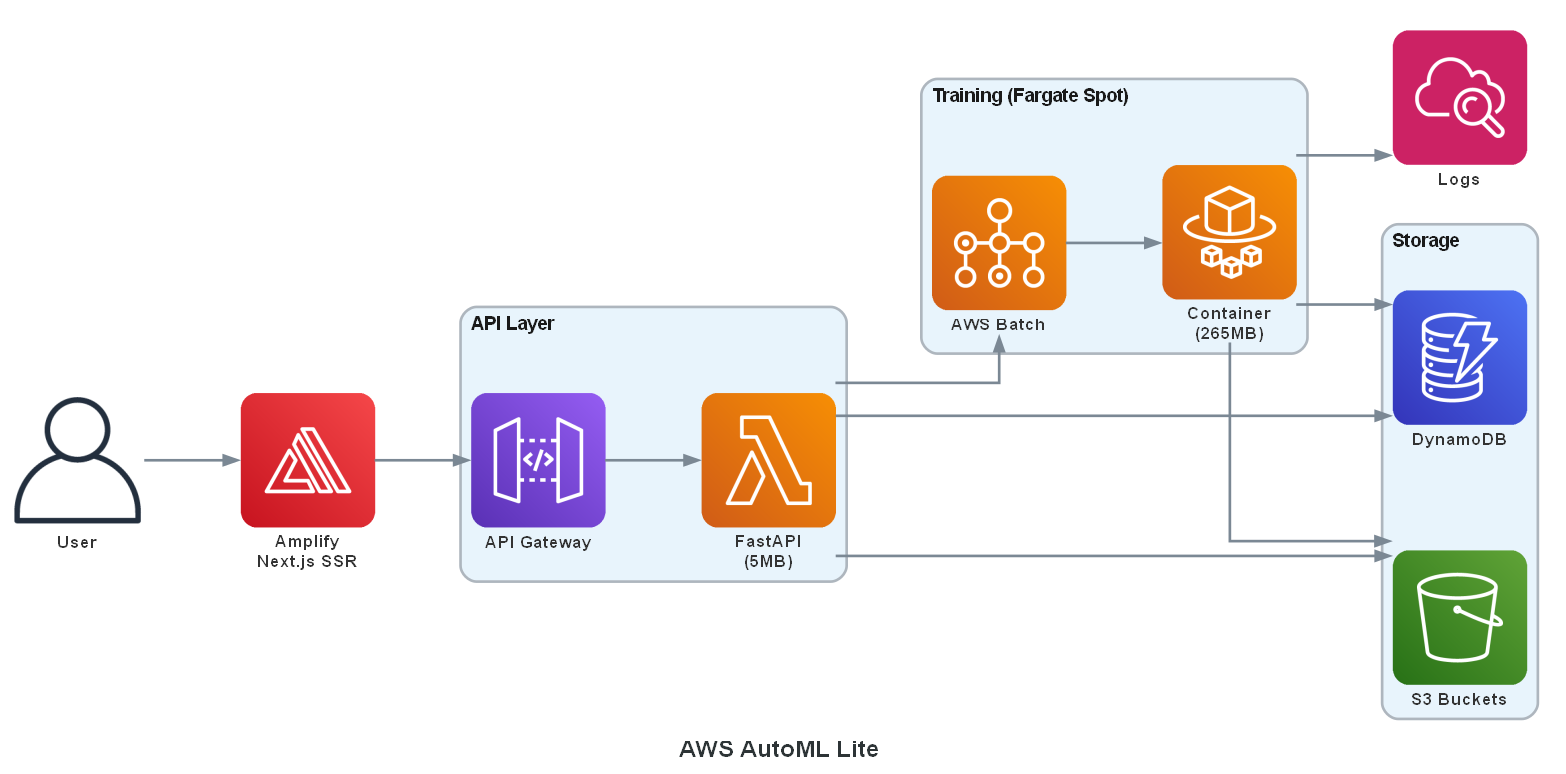
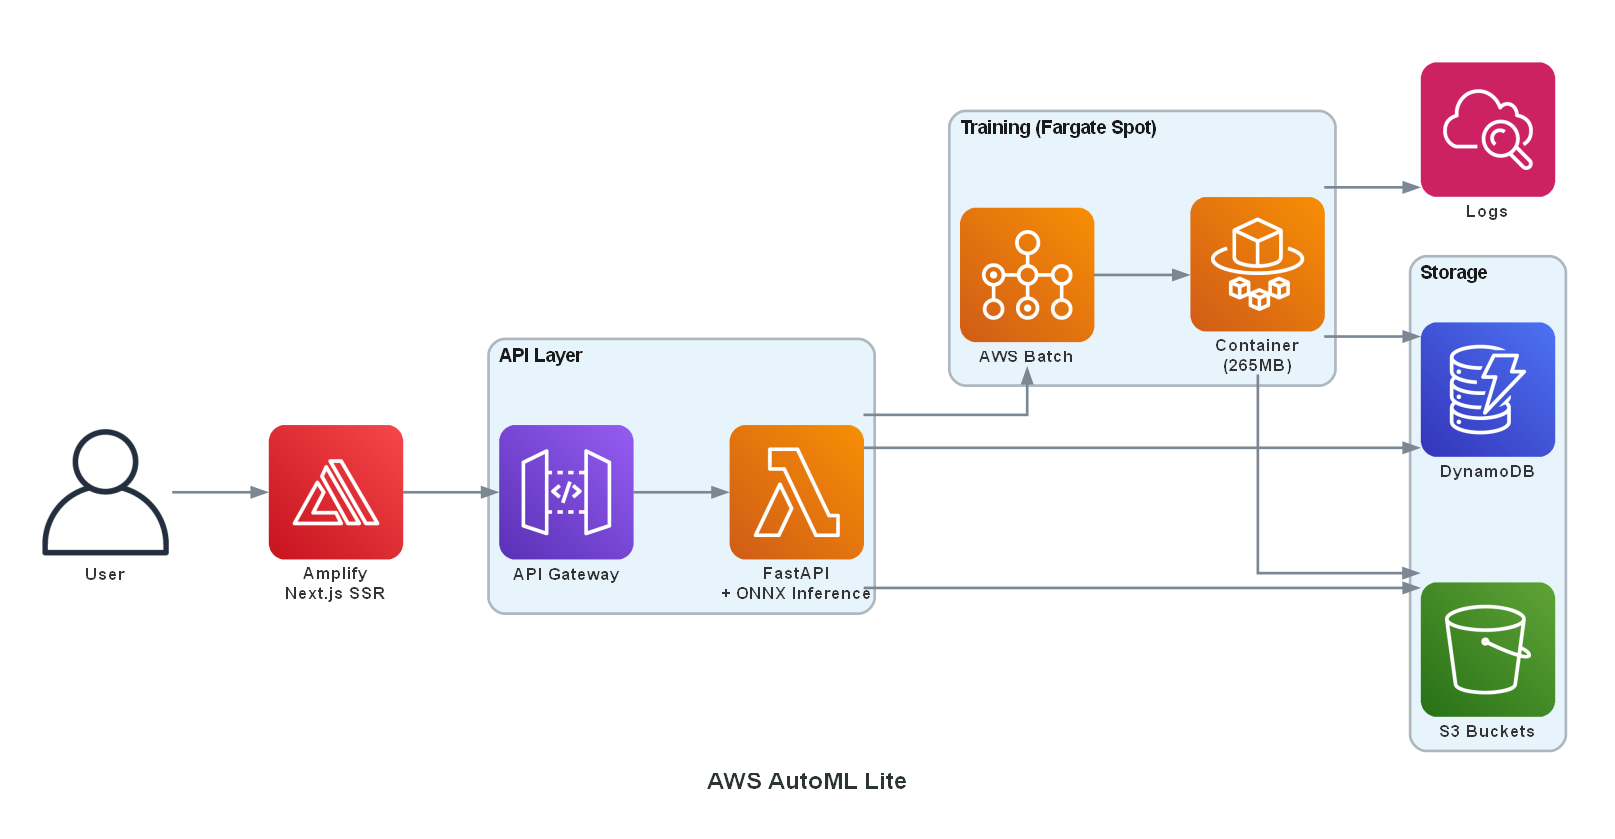
docs: update architecture diagrams and add new inference diagram

Changed region(s): [[0.0, 0.031, 0.9808, 0.9302], [0.5824, 0.093, 0.8276, 0.186], [0.4291, 0.8992, 0.5517, 0.9922]]

diff --git a/scripts/generate_architecture_diagram.py b/scripts/generate_architecture_diagram.py
@@ -14,9 +14,10 @@ Usage:
     python scripts/generate_architecture_diagram.py
 
 Output:
-    Creates 5 PNG files in the docs/diagrams/ directory:
+    Creates 6 PNG files in the docs/diagrams/ directory:
     - architecture-main.png
     - architecture-dataflow.png
+    - architecture-inference.png (NEW in v1.1.0)
     - architecture-cost.png
     - architecture-cicd.png
     - architecture-training.png
@@ -98,7 +99,7 @@ def create_main_architecture():
         # API Layer
         with Cluster("API Layer", graph_attr=CLUSTER_ATTR):
             api_gw = APIGateway("API Gateway")
-            lambda_fn = Lambda("FastAPI\n(5MB)")
+            lambda_fn = Lambda("FastAPI\n+ ONNX Inference")
         
         # Storage
         with Cluster("Storage", graph_attr=CLUSTER_ATTR):
@@ -124,10 +125,10 @@ def create_main_architecture():
 
 
 def create_data_flow_diagram():
-    """Create the data flow diagram - 4 phases horizontal."""
+    """Create the data flow diagram - 5 phases horizontal (updated v1.1.0)."""
     
     with Diagram(
-        "Data Flow: Upload → Train → Download",
+        "Data Flow: Upload → Train → Predict",
         show=False,
         filename=os.path.join(OUTPUT_DIR, "architecture-dataflow"),
         outformat="png",
@@ -153,8 +154,12 @@ def create_data_flow_diagram():
         
         # Phase 4: Results
         with Cluster("4. Results", graph_attr=CLUSTER_ATTR):
-            s3_model = S3("Model .pkl")
+            s3_model = S3(".pkl + .onnx")
             dynamo_metrics = Dynamodb("Metrics")
+        
+        # Phase 5: Predict (NEW in v1.1.0)
+        with Cluster("5. Predict", graph_attr=CLUSTER_ATTR):
+            lambda_inference = Lambda("ONNX\nRuntime")
         
         # Linear flow
         user >> Edge(label="CSV", fontsize="13", fontname="Arial Bold") >> s3_upload
@@ -162,7 +167,8 @@ def create_data_flow_diagram():
         dynamo_meta >> fargate
         fargate >> s3_model
         fargate >> dynamo_metrics
-        s3_model >> Edge(label="Download", fontsize="13", fontname="Arial Bold") >> user
+        s3_model >> lambda_inference
+        lambda_inference >> Edge(label="Prediction", fontsize="13", fontname="Arial Bold") >> user
 
 
 def create_cost_comparison_diagram():
@@ -206,15 +212,15 @@ def create_cost_comparison_diagram():
         edge_attr=EDGE_ATTR,
         direction="LR"  # Horizontal side by side
     ):
-        with Cluster("SageMaker + Endpoint\n$150-300/mo (endpoint 24/7)", graph_attr=sagemaker_cluster):
-            sm_studio = Sagemaker("Training\n$0.68-3.20")
-            sm_endpoint = Sagemaker("Endpoint\n$150+/mo")
+        with Cluster("SageMaker AI\n$36-171/mo (idle)", graph_attr=sagemaker_cluster):
+            sm_studio = Sagemaker("Training\n($0.03-0.16/job)")
+            sm_endpoint = Sagemaker("Endpoint\n$36-171/mo\n(idle)")
             sm_studio - sm_endpoint
         
-        with Cluster("AutoML Lite (batch only)\n$10-25/mo total", graph_attr=automl_cluster):
-            lite_amplify = Amplify("Amplify\n$5-15")
-            lite_lambda = Lambda("Lambda\n$1-2")
-            lite_fargate = Fargate("Fargate Spot\n$2-5")
+        with Cluster("AutoML Lite (Scale-to-zero)\n~$2-15/mo ($0 idle)", graph_attr=automl_cluster):
+            lite_amplify = Amplify("Amplify\n(Next.js SSR)")
+            lite_lambda = Lambda("API + Inference\n$0 idle\n(~$0.000004/req)")
+            lite_fargate = Fargate("Batch (Spot)\n$0.02/job")
             lite_amplify - lite_lambda - lite_fargate
 
 
@@ -257,7 +263,7 @@ def create_cicd_diagram():
 
 
 def create_training_detail_diagram():
-    """Create detailed training container diagram."""
+    """Create detailed training container diagram (updated v1.1.0 with ONNX)."""
     from diagrams.programming.language import Python
     from diagrams.onprem.container import Docker
     
@@ -272,7 +278,7 @@ def create_training_detail_diagram():
     }
     
     with Diagram(
-        "Training Container Flow",
+        "Training Container Flow (v1.1.0)",
         show=False,
         filename=os.path.join(OUTPUT_DIR, "architecture-training"),
         outformat="png",
@@ -287,16 +293,73 @@ def create_training_detail_diagram():
             download = S3("Download\nCSV")
             eda = Dynamodb("Generate\nEDA")
             train = Fargate("FLAML\nTraining")
+            onnx_export = Fargate("ONNX\nExport")
             
         with Cluster("Outputs", graph_attr=CLUSTER_ATTR):
-            model = S3("Model .pkl")
+            model_pkl = S3("Model .pkl")
+            model_onnx = S3("Model .onnx")
             report = S3("Reports")
             metrics = Dynamodb("Metrics")
         
-        batch >> download >> eda >> train
-        train >> model
+        batch >> download >> eda >> train >> onnx_export
+        onnx_export >> model_pkl
+        onnx_export >> model_onnx
         train >> report
         train >> metrics
+
+
+def create_inference_diagram():
+    """Create serverless inference architecture diagram (NEW in v1.1.0)."""
+    
+    inference_graph_attr = {
+        "fontsize": "16",
+        "fontname": "Arial Bold",
+        "bgcolor": "white",
+        "pad": "0.4",
+        "splines": "ortho",
+        "nodesep": "0.8",
+        "ranksep": "1.0",
+    }
+    
+    inference_cluster = {
+        "fontsize": "14",
+        "fontname": "Arial Bold",
+        "fontcolor": "#1a1a1a",
+        "style": "rounded",
+        "bgcolor": "#e8fce8",  # Light green for serverless
+        "penwidth": "2",
+    }
+    
+    with Diagram(
+        "Serverless Inference (v1.1.0)",
+        show=False,
+        filename=os.path.join(OUTPUT_DIR, "architecture-inference"),
+        outformat="png",
+        graph_attr=inference_graph_attr,
+        node_attr=NODE_ATTR,
+        edge_attr=EDGE_ATTR,
+        direction="LR"
+    ):
+        user = User("User")
+        
+        # Frontend
+        amplify = Amplify("Playground UI")
+        
+        # API Layer
+        with Cluster("Serverless Inference", graph_attr=inference_cluster):
+            api_gw = APIGateway("API Gateway\n/predict/{job_id}")
+            lambda_fn = Lambda("Lambda\nONNX Runtime")
+        
+        # Storage
+        with Cluster("Model Storage", graph_attr=CLUSTER_ATTR):
+            s3_onnx = S3("model.onnx")
+            dynamo = Dynamodb("Job Metadata\n(deployed=true)")
+        
+        # Flow
+        user >> amplify >> api_gw >> lambda_fn
+        lambda_fn >> Edge(label="Load", fontsize="11", fontname="Arial Bold") >> s3_onnx
+        lambda_fn >> dynamo
+        lambda_fn >> Edge(label="Prediction", fontsize="11", fontname="Arial Bold") >> user
 
 
 if __name__ == "__main__":
@@ -324,13 +387,18 @@ if __name__ == "__main__":
         create_training_detail_diagram()
         print("   ✅ architecture-training.png")
         
+        print("\n6. Creating inference architecture diagram...")
+        create_inference_diagram()
+        print("   ✅ architecture-inference.png")
+        
         print(f"\n✅ All diagrams generated in: {OUTPUT_DIR}")
         print("\nAvailable diagrams:")
-        print("  - architecture-main.png      (Main architecture overview)")
-        print("  - architecture-dataflow.png  (Data flow: Upload → Train → Download)")
-        print("  - architecture-cost.png      (Cost comparison with SageMaker)")
-        print("  - architecture-cicd.png      (CI/CD pipeline)")
-        print("  - architecture-training.png  (Training container detail)")
+        print("  - architecture-main.png       (Main architecture overview)")
+        print("  - architecture-dataflow.png   (Data flow: Upload → Train → Predict)")
+        print("  - architecture-cost.png       (Cost comparison with SageMaker)")
+        print("  - architecture-cicd.png       (CI/CD pipeline)")
+        print("  - architecture-training.png   (Training container detail)")
+        print("  - architecture-inference.png  (Serverless inference - v1.1.0)")
         
     except Exception as e:
         print(f"\n❌ Error: {e}")

diff --git a/docs/diagrams/README.md b/docs/diagrams/README.md
@@ -2,15 +2,18 @@
 
 Auto-generated AWS architecture diagrams for AWS AutoML Lite.
 
+> **Last updated:** v1.1.0 (December 2025)
+
 ## Available Diagrams
 
 | Diagram | Description | Used In |
 |---------|-------------|---------|
 | `architecture-main.png` | Main architecture overview | README, docs |
-| `architecture-dataflow.png` | Data flow: Upload → Train → Download | PROJECT_REFERENCE |
+| `architecture-dataflow.png` | Data flow: Upload → Train → Predict | PROJECT_REFERENCE |
+| `architecture-inference.png` | Serverless inference with ONNX (v1.1.0) | ROADMAP, TECHNICAL_ANALYSIS |
 | `architecture-cost.png` | Cost comparison with SageMaker | Documentation |
 | `architecture-cicd.png` | CI/CD pipeline with GitHub Actions | SETUP_CICD.md |
-| `architecture-training.png` | Training container internal flow | PROJECT_REFERENCE |
+| `architecture-training.png` | Training container with ONNX export | PROJECT_REFERENCE |
 
 ## Regenerating Diagrams
 
@@ -41,6 +44,9 @@ python scripts/generate_architecture_diagram.py
 
 ### Training Container
 ![Training](./architecture-training.png)
+
+### Serverless Inference (v1.1.0)
+![Inference](./architecture-inference.png)
 
 ## Customization
 
